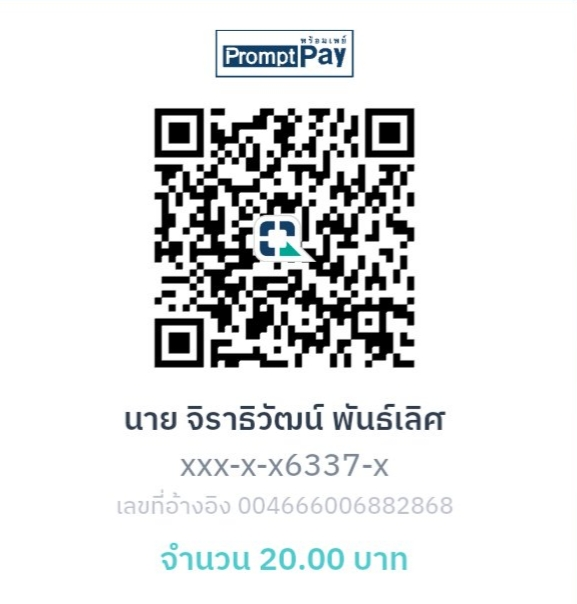
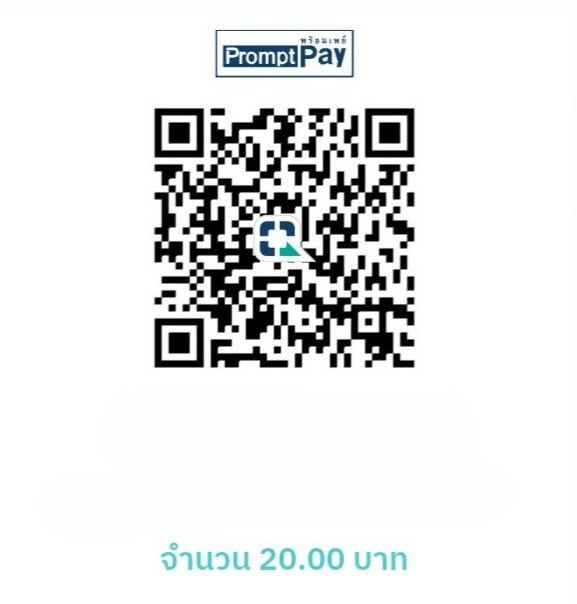
Add files via upload

Changed region(s): [[0.2184, 0.745, 0.7799, 0.8642], [0.2184, 0.6556, 0.7799, 0.7152]]

diff --git a/worksite/index.html b/worksite/index.html
@@ -1,0 +1,353 @@
+<!DOCTYPE html>
+<html lang="th">
+<head>
+  <meta charset="UTF-8">
+  <meta name="viewport" content="width=device-width, initial-scale=1.0">
+  <title>ออกแบบ</title>
+  <link rel="icon" href="Images/logo.jpg" type="Images/logo.jpg">
+  <link href="https://fonts.googleapis.com/css2?family=Prompt:wght@400;600&display=swap" rel="stylesheet">
+  <style>
+    body {
+      font-family: 'Prompt', sans-serif;
+      background: linear-gradient(135deg, #ffe6f0, #f9f0ff);
+      margin: 0;
+      padding: 20px;
+      min-height: 100vh;
+      display: flex;
+      justify-content: center;
+      align-items: center;
+    }
+
+    .container {
+      max-width: 450px;
+      width: 100%;
+      background-color: white;
+      border-radius: 20px;
+      box-shadow: 0 10px 25px rgba(0,0,0,0.1);
+      padding: 25px;
+      margin: auto;
+    }
+
+    h2 {
+      text-align: center;
+      color: #ff5e94;
+      margin-top: -10px;
+      margin-bottom: 5px;
+      font-size: 22px;
+    }
+
+    .note {
+      text-align: center;
+      font-size: 14px;
+      color: #666;
+      margin-bottom: 20px;
+    }
+
+    label {
+      display: block;
+      font-weight: 600;
+      margin-top: 15px;
+      color: #333;
+    }
+
+    input[type="text"],
+    textarea {
+      width: 100%;
+      padding: 12px;
+      margin-top: 5px;
+      border: 1px solid #ddd;
+      border-radius: 12px;
+      background-color: #fafafa;
+      font-size: 14px;
+      box-sizing: border-box;
+    }
+
+    textarea {
+      resize: vertical;
+      min-height: 80px;
+    }
+
+    .choices {
+      display: flex;
+      gap: 10px;
+      margin-top: 10px;
+    }
+
+    .choice-btn {
+      flex: 1;
+      padding: 12px;
+      background: #f0f0f0;
+      color: #444;
+      border: 2px solid transparent;
+      border-radius: 12px;
+      font-weight: 600;
+      cursor: pointer;
+      transition: all 0.2s ease;
+      text-align: center;
+    }
+
+    .choice-btn:hover {
+      background: #ffe1ed;
+    }
+
+    .choice-btn.active {
+      background-color: #ff7fa4;
+      color: white;
+      border-color: #ff5e94;
+    }
+
+    input[type="file"] {
+      margin-top: 10px;
+      width: 100%;
+    }
+
+    .image-preview {
+      margin-top: 10px;
+      max-width: 100%;
+      display: none;
+    }
+
+    .btn {
+      width: 100%;
+      padding: 14px;
+      background-color: #ff5e94;
+      color: white;
+      border: none;
+      border-radius: 14px;
+      font-size: 16px;
+      font-weight: bold;
+      margin-top: 25px;
+      cursor: pointer;
+      transition: background-color 0.2s;
+    }
+
+    .btn:hover {
+      background-color: #ff4181;
+    }
+
+    .btn:disabled {
+      background-color: #ccc;
+      cursor: not-allowed;
+    }
+
+    .back-home {
+      text-align: center;
+      margin-top: 20px;
+    }
+
+    .back-btn {
+      border: 1px solid #ff5e94;
+      color: #ff5e94;
+      background: none;
+      border-radius: 10px;
+      padding: 10px 20px;
+      cursor: pointer;
+      font-weight: bold;
+    }
+
+    .success {
+      text-align: center;
+      margin-top: 30px;
+    }
+
+    .check {
+      font-size: 60px;
+      color: #4CAF50;
+    }
+
+    .error {
+      color: #d32f2f;
+      font-size: 14px;
+      margin-top: 5px;
+      display: none;
+    }
+
+    @media (max-width: 480px) {
+      .container {
+        padding: 15px;
+      }
+
+      .choice-btn {
+        font-size: 14px;
+        padding: 10px;
+      }
+
+      .btn {
+        font-size: 14px;
+      }
+    }
+  </style>
+</head>
+  <body>
+  <div class="container" id="formPage">
+    <div style="text-align: center;">
+    <img src="Images/logo.jpg" width="70" height="70">
+    </div>
+    <h2>ทำงานออกแบบ</h2>
+    <p class="note">จ่ายก่อนเดี๋ยวไปทำให้ 20 บาท 😊</p>
+
+    <form id="designForm" novalidate>
+      <label for="name">ชื่อ :</label>
+      <input type="text" id="name" placeholder="ใส่ชื่อ" aria-required="true">
+      <p class="error" id="nameError">ลืมไรไปป่าว</p>
+
+      <label for="problem">ปัญหาคือ :</label>
+      <textarea id="problem" placeholder="ใส่ให้ถูกจะได้แก้ให้ไวๆ"></textarea>
+      <p class="error" id="problemError">ลืมใส่อันนี้</p>
+
+      <label id="personLabel">จะให้ใครทำ :</label>
+      <div class="choices" role="radiogroup" aria-labelledby="personLabel">
+        <button type="button" class="choice-btn" onclick="selectPerson(this, 'phu')" aria-label="เลือกภู">ภู</button>
+        <button type="button" class="choice-btn" onclick="selectPerson(this, 'captain')" aria-label="เลือกกัปตัน">กัปตัน</button>
+      </div>
+      <p class="error" id="personError">เลือกก่อนเห้ยยย</p>
+
+      <div style="text-align: center; width: auto; margin-top: 30px;">
+      <img src="Images/Pay.jpg" alt="Me" width="288" height="302">
+      </div>
+
+      <label for="file">แนบรูปภาพ:</label>
+      <input type="file" id="file" accept="image/*" aria-required="true">
+      <p class="error" id="fileError">จะบิดหรอจ้ะ</p>
+      <img id="imagePreview" class="image-preview" alt="ตัวอย่างรูปภาพที่เลือก">
+
+      <button type="submit" class="btn">ส่งข้อมูล</button>
+    </form>
+
+    <div class="back-home">
+      <button class="back-btn" onclick="goBackToForm()">กลับหน้าแรก</button>
+    </div>
+  </div>
+
+  <div class="container" id="successPage" style="display: none;">
+    <h2>ส่งงานสำเร็จ</h2>
+    <div class="success">
+      <div class="check">✅</div>
+      <h3>ส่งสำเร็จ</h3>
+      <p>ขอบคุณ (<span id="showName">ชื่อผู้กรอก</span>)</p>
+      <p>จะดำเนินการให้เร็วที่สุด ⚡</p>
+    </div>
+    <div class="back-home">
+      <button class="back-btn" onclick="goBackToForm()">กลับหน้าแรก</button>
+    </div>
+  </div>
+
+  <script>
+
+    function goBackToForm() {
+    document.getElementById('successPage').style.display = 'none';
+    document.getElementById('formPage').style.display = 'block';
+    document.getElementById('designForm').reset();
+    document.getElementById('imagePreview').style.display = 'none';
+    selectedPerson = '';
+    document.querySelectorAll('.choice-btn').forEach(btn => btn.classList.remove('active'));
+    document.querySelectorAll('.error').forEach(err => err.style.display = 'none');
+    }
+
+    let selectedPerson = "";
+
+    function selectPerson(button, name) {
+      selectedPerson = name;
+      document.querySelectorAll('.choice-btn').forEach(btn => btn.classList.remove('active'));
+      button.classList.add('active');
+    }
+
+    function validateForm(name, problem, file) {
+      let isValid = true;
+      document.querySelectorAll('.error').forEach(err => err.style.display = 'none');
+
+      if (!name.trim()) {
+        document.getElementById('nameError').style.display = 'block';
+        isValid = false;
+      }
+      // เปิดใช้ถ้าต้องการให้ problem บังคับ
+      if (!problem.trim()) {
+      document.getElementById('problemError').style.display = 'block';
+      isValid = false;
+      }
+      if (!selectedPerson) {
+        document.getElementById('personError').style.display = 'block';
+        isValid = false;
+      }
+      if (!file) {
+        document.getElementById('fileError').innerText = 'จะบิดหรอจ้ะ';
+        document.getElementById('fileError').style.display = 'block';
+        isValid = false;
+      } else if (file.size > 5 * 1024 * 1024) { // จำกัดขนาดไฟล์ 5MB
+        document.getElementById('fileError').innerText = 'ไฟล์ใหญ่เกิน 5MB';
+        document.getElementById('fileError').style.display = 'block';
+        isValid = false;
+      } else if (!file.type.startsWith('image/')) { // ตรวจสอบว่าเป็นไฟล์ภาพ
+        document.getElementById('fileError').innerText = 'กรุณาอัปโหลดไฟล์ภาพเท่านั้น';
+        document.getElementById('fileError').style.display = 'block';
+        isValid = false;
+      }
+
+      return isValid;
+    }
+
+    // แสดงตัวอย่างรูปภาพ
+    document.getElementById('file').addEventListener('change', (e) => {
+      const file = e.target.files[0];
+      const preview = document.getElementById('imagePreview');
+      if (file && file.type.startsWith('image/')) {
+        preview.src = URL.createObjectURL(file);
+        preview.style.display = 'block';
+        console.log('File selected:', file.name, file.size, file.type); // Debug
+      } else {
+        preview.style.display = 'none';
+      }
+    });
+
+    document.getElementById('designForm').addEventListener('submit', async (e) => {
+      e.preventDefault();
+
+      const name = document.getElementById('name').value.trim();
+      const problem = document.getElementById('problem').value.trim();
+      const fileInput = document.getElementById('file');
+      const file = fileInput.files[0];
+
+      if (!validateForm(name, problem, file)) {
+        return;
+      }
+
+      // เตรียม FormData สำหรับส่งข้อมูล
+      const formData = new FormData();
+      formData.append('name', name);
+      formData.append('problem', problem);
+      formData.append('person', selectedPerson);
+      formData.append('file', file);
+      console.log('FormData prepared, file:', file.name); // Debug
+
+      try {
+        const submitBtn = document.querySelector('.btn');
+        submitBtn.disabled = true;
+        submitBtn.textContent = 'กำลังส่ง...';
+
+        const response = await fetch('https://script.google.com/macros/s/AKfycbzVYUn-EsAXENmdNT4KYSIZtaIaSaooqtAB5Uf7rAKzrCZS5eIuHdvGM-MLh8cUpqeH/exec', {
+          method: 'POST',
+          body: formData,
+        });
+
+        const result = await response.json();
+        console.log('Response:', result); // Debug
+        submitBtn.disabled = false;
+        submitBtn.textContent = 'ส่งข้อมูล';
+
+        if (result.status === 'Success') {
+          document.getElementById('formPage').style.display = 'none';
+          document.getElementById('successPage').style.display = 'block';
+          document.getElementById('showName').innerText = name;
+        } else {
+          alert(`เกิดข้อผิดพลาด: ${result.message || 'ไม่สามารถส่งข้อมูลได้'}`);
+        }
+      } catch (error) {
+        console.error('Fetch error:', error);
+        submitBtn.disabled = false;
+        submitBtn.textContent = 'ส่งข้อมูล';
+        alert('เกิดข้อผิดพลาดในการส่งข้อมูล: ' + error.message);
+      }
+    });
+  </script>
+</body>
+</html>
